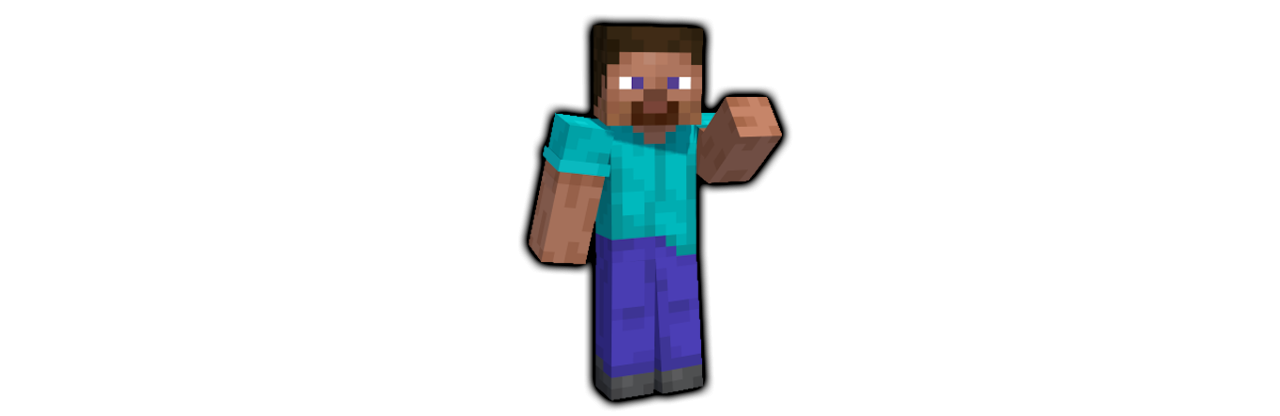
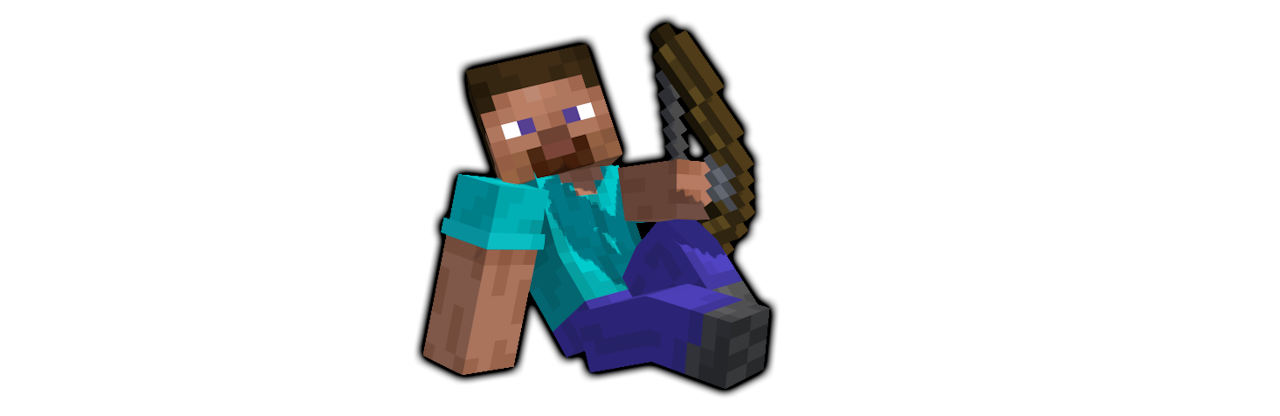
更新

Changed region(s): [[0.3125, 0.0312, 0.625, 1.0]]

diff --git a/post/post7.html b/post/post7.html
@@ -40,10 +40,24 @@
 							<!-- Section -->
 							<section>
 								<header class="main">
-									<h1>Chapter01</h1>
+									<h1>Chapter-01</h1>
 								</header>
-								<span class="image main"><img src="../images/post/post_crushers.png" alt="" /></span>
 
+								<span class="image main"><img src="../images/post/post_steve.png" alt="" /></span>
+
+								<p>
+									プロジェクトの発足から11回のフェーズを経て、擬態科学の研究が落ち着きはじめていた頃のお話。<br /><br />
+									スティーブは自身がクラフトテーブルによって生み出した緑ガラスに、自分だけが扱える特殊な細工を施した。<br />
+									「その緑ガラスの性質を全てのブロックに適応させる」と脅し、擬態科学の人間に自身の状態維持能力を高めさせた。<br />
+									その状態維持能力をスティーブは違う言葉で表現する。「永続する変化」と。<br /><br />
+									ヘロブラインが過去にすべてのイミテイターからエアストレイフの発動プロファイルを奪い去った事件から半年ほど経過したこの隙を狙った犯行である。<br />
+									罠師のように礼節持ったヒューマンもいるが、やはりこの2人には警戒しないといけない。いつかすべてのキャラコンを盗まれてしまうから。<br />
+								</p>
+								<a href="../pages/imitators/steve.html" class="button">イミテイター解説ページへ移動</a>
+
+								<hr class="major" />
+
+								<span class="image main"><img src="../images/post/post_crushers.png" alt="" /></span>
 								<p>
 									姉妹鯖であるImitatorsMCのプロジェクト閉鎖を受けて、開発元は二者の共存を目指して能力の移植に取り組んできました。<br />
 									その一つとしてTwinsの自動歩行はImitatorsMCのIllusionを受け継いだものとなっています。<br />
@@ -59,10 +73,20 @@
 								<h2>各種イミテイターの調整</h2>
 								<div class="row">
 									<div class="col-4 col-12-medium">
+										<h3>Steve / スティーブ</h3>
+										<span class="image fit"><img src="../images/imitator/steve.png" alt="" ></span>
+										<ul>
+											<li>緑ガラスに対する壁キックの腹減りを消しました。</li>
+											<li>破壊で緑ガラスを回収できるようにしました。</li>
+											<li>クールタイムを4秒減少させました。</li>
+											<li>効果時間を9秒増加させました。</li>
+										</ul>
+									</div>
+									<div class="col-4 col-12-medium">
 										<h3>Vanisher / ヴァニッシャー</h3>
 										<span class="image fit"><img src="../images/imitator/vanisher.png" alt="" ></span>
 										<ul>
-											<li>透明化の時間を1秒間増加しました。</li>
+											<li>透明化の時間を1秒増加させました。</li>
 										</ul>
 									</div>
 									<div class="col-4 col-12-medium">
@@ -77,10 +101,20 @@
 										<h3>Xray / エクスレイ</h3>
 										<span class="image fit"><img src="../images/imitator/xray.png" alt="" ></span>
 										<ul>
-											<li>ブロック透明化が損なわれるバグを修正しました。</li>
+											<li>ブロック透明化が損なわれる問題を修正しました。</li>
+										</ul>
+									</div>
+									<div class="col-4 col-12-medium">
+										<h3>Chorus / コーラス</h3>
+										<span class="image fit"><img src="../images/imitator/chorus.png" alt="" ></span>
+										<ul>
+											<li>CTを5秒減少させました。</li>
+											<li>効果時間を1秒増加させました。</li>
 										</ul>
 									</div>
 								</div><br />
+
+								<hr class="major" />
 
 								<h2>各種サプライの調整</h2>
 								<div class="row">
@@ -100,6 +134,40 @@
 											<li>爆破範囲を半分にしました。</li>
 											<li>CTを3秒減少させました。</li>
 										</ul>
+									</div>
+								</div>
+
+								<hr class="major" />
+
+								<h2>変更要素</h2>
+								<div class="row">
+									<div class="col-4 col-8-medium">
+										<h3>無駄なワールド生成を削除</h3>
+										<p>延長戦のないモードでも常に延長戦ワールドを読み込んでいたことが負荷の要因であったと推測したため削除しました。</p>
+									</div>
+									<div class="col-4 col-8-medium">
+										<h3>ワールド生成ラグの軽減</h3>
+										<p>エントリーワールド含めすべてのワールドを同時に生成していたことが負荷の要因であったと推測したため修正しました。</p>
+									</div>
+									<div class="col-4 col-8-medium">
+										<h3>エントリー処理の調整</h3>
+										<p>Clerkを殴った時に周りのユーザーに干渉しないようにサイズを少し大きくしたほか、吹っ飛ばすようにしました。</p>
+									</div>
+									<div class="col-4 col-8-medium">
+										<h3>夜マップを削除</h3>
+										<p>スワッパーなど、暗いスキンが見えづらいため削除して朝と夕方の時間帯に変更しました。</p>
+									</div>
+									<div class="col-4 col-8-medium">
+										<h3>人数分散処理</h3>
+										<p>10人以上参加者が出た場合、参加者の半数をマッチング人数にする設定を導入しました。</p>
+									</div>
+									<div class="col-4 col-8-medium">
+										<h3>ギャンブルの最適化</h3>
+										<p>賭けた人もカルマの奪取を行えるように変更しました。</p>
+									</div>
+									<div class="col-4 col-8-medium">
+										<h3>ランダム設定の修正</h3>
+										<p>イミテイターウェポンのランダム設定がエントリールームでうまく適応されない問題を修正しました。</p>
 									</div>
 								</div>
 
